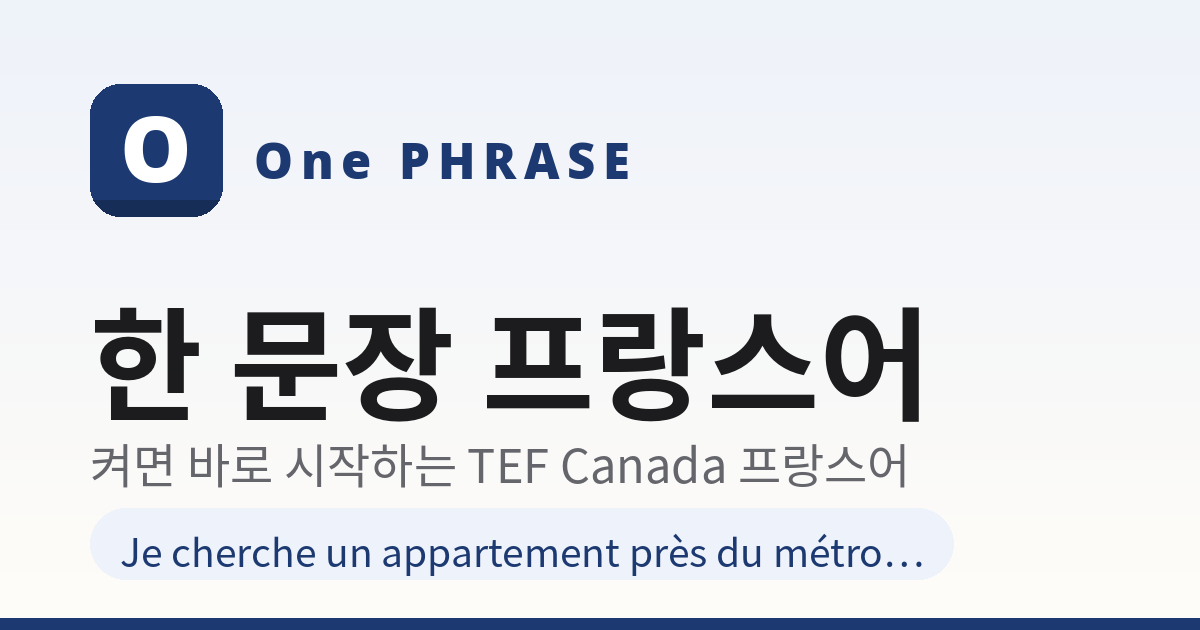
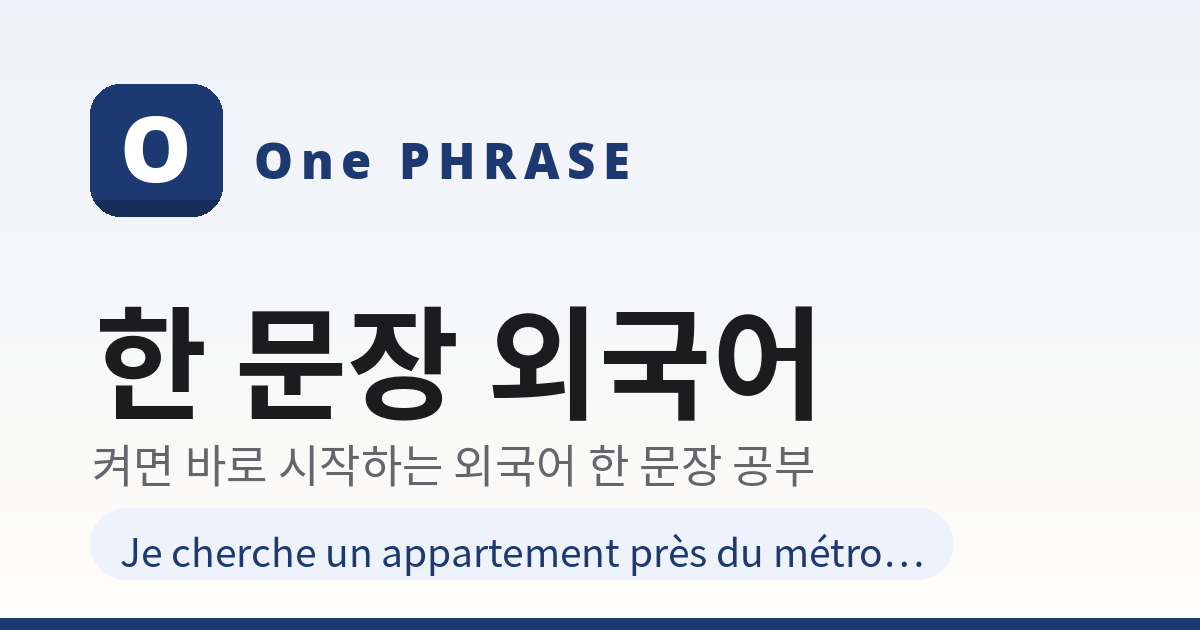
v1.31.2: 정체성 표기 '한 문장 프랑스어' → '한 문장 외국어' 교체 (제목 TEF Canada 표기 제거, og-image 재생성)

Changed region(s): [[0.0617, 0.4825, 0.7708, 0.7841], [0.0617, 0.4825, 0.37, 0.6635]]

diff --git a/index.html b/index.html
@@ -8,10 +8,10 @@
 <link rel="apple-touch-icon" href="./icons/apple-touch-icon.png">
 <meta name="mobile-web-app-capable" content="yes">
 <meta name="apple-mobile-web-app-capable" content="yes">
-<title>One Phrase — 한 문장 프랑스어 | 켜자마자 한 문장, TEF Canada</title>
-<meta name="description" content="고르는 고민 없이, 켜자마자 미리 만들어진 프랑스어 한 문장을 읽고·따라 쓰고·가리고 쓰며 공부하는 앱. TEF Canada 전 영역 연결.">
-<meta property="og:title" content="One Phrase — 한 문장 프랑스어">
-<meta property="og:description" content="켜자마자 한 문장. TEF Canada와 일상 프랑스어를 3단계로 공부하는 앱.">
+<title>One Phrase — 한 문장 외국어 | 켜자마자 한 문장</title>
+<meta name="description" content="고르는 고민 없이, 켜자마자 미리 만들어진 외국어 한 문장을 읽고·따라 쓰고·가리고 쓰며 공부하는 앱.">
+<meta property="og:title" content="One Phrase — 한 문장 외국어">
+<meta property="og:description" content="켜자마자 한 문장. 외국어를 3단계로 공부하는 앱.">
 <meta property="og:url" content="https://sidebatch.github.io/one-phrase/">
 <meta property="og:type" content="website">
 <meta property="og:locale" content="ko_KR">
@@ -19,8 +19,8 @@
 <meta property="og:image:width" content="1200">
 <meta property="og:image:height" content="630">
 <meta name="twitter:card" content="summary_large_image">
-<meta name="twitter:title" content="One Phrase — 한 문장 프랑스어">
-<meta name="twitter:description" content="켜자마자 한 문장. TEF Canada와 일상 프랑스어를 3단계로 공부하는 앱.">
+<meta name="twitter:title" content="One Phrase — 한 문장 외국어">
+<meta name="twitter:description" content="켜자마자 한 문장. 외국어를 3단계로 공부하는 앱.">
 <meta name="twitter:image" content="https://sidebatch.github.io/one-phrase/og-image.png">
 <script>
 /* 테마 조기 적용: 저장된 테마를 첫 페인트 전에 세팅해 새로고침 깜빡임을 막는다. 읽기 실패 시 라이트. */
@@ -297,7 +297,7 @@ summary{font-weight:800;cursor:pointer}
 <div class="wrap">
 <header class="masthead">
 <div class="brandrow"><span class="logo" aria-hidden="true">O</span><span class="wordmark">ONE PHRASE</span><button class="profilebtn" id="profileBtn" aria-label="내 정보" aria-haspopup="dialog"><svg viewBox="0 0 24 24" fill="none" stroke="currentColor" stroke-width="1.9" stroke-linecap="round" stroke-linejoin="round" aria-hidden="true"><circle cx="12" cy="8" r="3.6"/><path d="M5.2 19.8c.8-3.6 3.4-5.4 6.8-5.4s6 1.8 6.8 5.4"/></svg></button><button class="menubtn" id="menuBtn" aria-haspopup="dialog" aria-expanded="false">☰ 메뉴</button></div>
-<h1>한 문장 프랑스어</h1>
+<h1>한 문장 외국어</h1>
 <div class="progress" id="progressArea">
 <div class="progress-top"><span id="progressLine">불러오는 중…</span><span class="todaychip" id="todayChip">오늘 0문장</span></div>
 <div class="pbar" id="pbar" role="progressbar" aria-label="전체 진행률" aria-valuemin="0" aria-valuemax="100" aria-valuenow="0"><div class="pfill" id="pfill"></div></div>
@@ -399,13 +399,13 @@ summary{font-weight:800;cursor:pointer}
 </div>
 
 <footer>
-<div class="footbrand"><span class="footlogo" aria-hidden="true">O</span><span class="footword">ONE PHRASE</span><span class="footko">한 문장 프랑스어</span></div>
-<div class="footmeta">v1.31.1 · © 2026 sidebatch</div>
+<div class="footbrand"><span class="footlogo" aria-hidden="true">O</span><span class="footword">ONE PHRASE</span><span class="footko">한 문장 외국어</span></div>
+<div class="footmeta">v1.31.2 · © 2026 sidebatch</div>
 </footer>
 </div>
 <script>
 "use strict";
-const APP_VERSION = "1.31.1";
+const APP_VERSION = "1.31.2";
 const STORAGE_KEY = "une-phrase-progress-v1";
 const SUPABASE_URL = "https://cmhitsgoicxvmlwtrdrb.supabase.co";
 const SUPABASE_KEY = "sb_publishable_iZugJ1l1p3DSk_BB2Y3N3Q_qZwSo637";
@@ -1619,8 +1619,8 @@ document.getElementById("exportBtn").onclick = ()=>{
   const blob = new Blob([JSON.stringify(progress,null,2)],{type:"application/json"});
   const a = document.createElement("a"); a.href = URL.createObjectURL(blob); a.download = "une-phrase-progress.json"; a.click();
 };
-const SHARE_TITLE = "One Phrase — 한 문장 프랑스어";
-const SHARE_TEXT = "켜면 바로 시작하는 프랑스어 한 문장 공부";
+const SHARE_TITLE = "One Phrase — 한 문장 외국어";
+const SHARE_TEXT = "켜면 바로 시작하는 외국어 한 문장 공부";
 const SHARE_URL = "https://sidebatch.github.io/one-phrase/";
 const SHARE_BTN_LABEL = "🔗 이 앱 공유하기";
 function shareApp(){

diff --git a/tests/run-tests.js b/tests/run-tests.js
@@ -557,7 +557,7 @@ console.log("\n[공유 버튼 (v1.21.0)]");
 ok(html.includes('id="shareBtn"') && html.includes("🔗 이 앱 공유하기"), "공유: 더보기 탭에 '🔗 이 앱 공유하기' 버튼 있음");
 ok(html.indexOf('id="tab-about"') > -1 && html.indexOf('id="shareBtn"') > html.indexOf("어떻게 쓰나요") && html.indexOf('id="shareBtn"') < html.indexOf('id="resetZone"'), "공유: 버튼 위치는 더보기 탭 안, 사용법 아래·보관/초기화 영역 위");
 ok(html.includes('const SHARE_URL = "https://sidebatch.github.io/one-phrase/";'), "공유: 공유 주소는 실주소로 고정");
-ok(html.includes('const SHARE_TITLE = "One Phrase — 한 문장 프랑스어";') && html.includes('const SHARE_TEXT = "켜면 바로 시작하는 프랑스어 한 문장 공부";'), "공유: 제목·소개 문구 고정");
+ok(html.includes('const SHARE_TITLE = "One Phrase — 한 문장 외국어";') && html.includes('const SHARE_TEXT = "켜면 바로 시작하는 외국어 한 문장 공부";'), "공유: 제목·소개 문구 고정");
 ok(html.includes('getElementById("shareBtn").onclick') && html.includes('id="shareLink" hidden'), "공유: 버튼 핸들러 연결, 복사 실패 시 보여줄 주소 텍스트(숨김) 있음");
 const shareSrc = html.match(/function shareApp\(\)\{[\s\S]*?\n\}/)[0];
 const shareConstSrc = html.match(/const SHARE_TITLE[\s\S]*?const SHARE_BTN_LABEL = "[^"]*";/)[0];
@@ -784,15 +784,15 @@ if (fs.existsSync(ogPngPath)) {
   ok(ogBuf.readUInt32BE(16) === 1200 && ogBuf.readUInt32BE(20) === 630, "og-image.png 실제 크기 1200×630");
 }
 
-console.log("\n[개명 (v1.31.0) · 아이콘 워드마크 복원 (v1.31.1)]");
+console.log("\n[개명 (v1.31.0) · 아이콘 워드마크 복원 (v1.31.1) · 표기 교체 (v1.31.2)]");
 ok(html.includes('<span class="wordmark">ONE PHRASE</span>'), "워드마크: 헤더가 ONE PHRASE");
 ok(!html.includes("UNE PHRASE"), "개명: 옛 워드마크 UNE PHRASE 없음");
 ok(!html.includes("Une Phrase"), "개명: index.html에 옛 이름 Une Phrase 없음");
-ok(html.includes("<title>One Phrase — 한 문장 프랑스어"), "개명: <title>이 새 이름");
-ok(html.includes('property="og:title" content="One Phrase — 한 문장 프랑스어"'), "개명: og:title이 새 이름");
+ok(html.includes("<title>One Phrase — 한 문장 외국어 | 켜자마자 한 문장</title>"), "개명: <title>이 새 이름 (TEF Canada 표기 없음)");
+ok(html.includes('property="og:title" content="One Phrase — 한 문장 외국어"'), "개명: og:title이 새 이름");
 ok(html.includes('property="og:url" content="https://sidebatch.github.io/one-phrase/"'), "개명: og:url이 새 주소");
 ok(html.includes('const SHARE_URL = "https://sidebatch.github.io/one-phrase/";'), "개명: 공유 주소가 새 주소");
-ok(man.name === "One Phrase — 한 문장 프랑스어" && man.short_name === "One Phrase", "manifest: name·short_name이 새 이름");
+ok(man.name === "One Phrase — 한 문장 외국어" && man.short_name === "One Phrase", "manifest: name·short_name이 새 이름");
 ok(html.includes('class="logo" aria-hidden="true">O</span>') && html.includes('class="footlogo" aria-hidden="true">O</span>'), "로고: 헤더·푸터 로고 타일이 글자 O (개명 전 워드마크 방식)");
 const iconSvg = read("icons/icon.svg");
 ok(iconSvg.includes('fill="#1C3A71"') && iconSvg.includes('fill="#FFFFFF"') && iconSvg.includes(">One</text>") && iconSvg.includes('fill="#FFD166"') && iconSvg.includes(">PHRASE</text>"), "아이콘 소스 SVG: 파랑 배경·흰 'One'·금색 'PHRASE' 워드마크");

diff --git a/sw.js b/sw.js
@@ -1,5 +1,5 @@
 /* One Phrase - 오프라인용 서비스 워커 (네트워크 우선) */
-const CACHE = 'une-phrase-v1.31.1';
+const CACHE = 'une-phrase-v1.31.2';
 const ASSETS = [
   './',
   './index.html',

diff --git a/README.md b/README.md
@@ -1,14 +1,14 @@
-# One Phrase — 한 문장 프랑스어
+# One Phrase — 한 문장 외국어
 
 ## ▶ 바로 열기: https://sidebatch.github.io/one-phrase/
 
 (옛 주소 https://sidebatch.github.io/une-phrase/ 로 들어와도 새 주소로 자동 이동합니다.)
 
-켜자마자 **미리 만들어진 프랑스어 한 문장**이 바로 나오는 학습 앱.
+켜자마자 **미리 만들어진 외국어 한 문장**이 바로 나오는 학습 앱.
 고르는 고민도, 직접 만드는 부담도 없이 — 읽고, 따라 쓰고, 가리고 쓰면 한 문장이 끝난다.
 콘텐츠는 TEF Canada 준비와 캐나다 일상생활에 바로 쓸 수 있는 문장으로 구성했다.
 
-버전: v1.31.1
+버전: v1.31.2
 
 ## 어떻게 쓰나요
 
@@ -19,9 +19,10 @@
 기본은 **한 문장만**이다. 끝내면 완료 화면이 나오고, 원하면 "한 문장 더"를 누른다.
 멈춘 자리에서 자동으로 이어진다. 화면 이동은 헤더의 "☰ 메뉴"로만 하고, 주제별·단어 화면이 보조로 있다.
 
-## 콘텐츠 현황 (v1.31.1)
+## 콘텐츠 현황 (v1.31.2)
 
 - 문장 286개 (주제 10종, 레벨 A2 88개 · B1 96개 · B2 102개), 핵심 단어 572개
+- v1.31.2: 정체성 표기를 "한 문장 프랑스어"에서 "한 문장 외국어"로 교체 (콘텐츠·학습 동작·저장 키 변경 없음) — 설치 이름(manifest)·페이지 제목·공유 문구(SHARE_TITLE·SHARE_TEXT)·본문 h1·푸터 표기와 og-image 헤드라인을 바꾸고, 제목과 메타 설명에서는 TEF Canada 표기를 빼 특정 시험 전용이 아님을 반영
 - v1.31.1: 아이콘을 개명 전 워드마크 디자인으로 복원 (콘텐츠·학습 동작·저장 키 변경 없음) — 말풍선 픽토그램 대신 진한 파랑(#1C3A71) 배경에 1행 "One" 큰 흰 볼드 + 2행 "PHRASE" 금색(#FFD166)·자간 넓게의 타이포 디자인으로 재생성 (개명 전 "Une" 아이콘의 색·비율을 픽셀 실측해 "One"으로 교체, PIL 4배 슈퍼샘플링). 아이콘 4종·소스 SVG(icons/icon.svg)·og-image(타일은 "O", 워드마크는 "One PHRASE")와 헤더·푸터 로고 타일(글자 "O")까지 같은 디자인으로 통일
 - v1.31.0: 앱 개명 Une Phrase → **One Phrase** (콘텐츠·학습 동작·저장 키 변경 없음) — 프랑스어·영어·스페인어로 학습 언어를 넓히기 위한 준비로 이름을 언어 중립적으로 바꾸고, 리포도 sidebatch/one-phrase로 개명 (옛 주소는 새 주소로 자동 이동). 아이콘을 새 마크로 교체: 브랜드 파랑(#1C3A71) 둥근 사각형에 흰 말풍선, 그 안에 파란 한 줄 선 + 마침표(한 문장 상징). 아이콘 소스 SVG(icons/icon.svg)를 남기고 PNG 4종(icon-192·icon-512·apple-touch-icon·maskable-512)과 og-image를 같은 마크로 재생성, 헤더·푸터 로고 타일의 "U" 글자도 인라인 SVG 마크로 교체. 내부 식별자(저장 키 une-phrase-progress-v1, IndexedDB 보관함, GoatCounter 코드)는 데이터 연속성을 위해 유지
 - v1.30.0: 듣기·표시 다듬기 (콘텐츠 변경 없음) — ① 듣기 지연 개선: 음성 목록을 시작 시 미리 읽고 voiceschanged로 캐시해 두며, fr 음성 중 로컬(localService) 음성을 우선 선택. 누를 때마다 걸던 고정 120ms 대기를 없애고, 실제로 재생/대기 중일 때만 40ms만 기다린 뒤 speak 직전 resume()을 호출. 첫 pointerdown에 무음 발화로 엔진을 예열 ② 재생 중 표시: 듣기·느리게 듣기(단어 버튼 포함)를 누르면 발화가 끝날 때까지 버튼이 파랗게 채워지고, 종료·오류·길이 추정 안전 타이머 중 먼저 오는 것으로 해제. 단계·화면을 바꾸면 해제 ③ 내 정보의 구글 이메일은 기본 마스킹(go***@gmail.com)으로 표시하고 탭하면 전체 표시/다시 가리기 ④ 공부하기 레벨 표시줄에 현재 레벨 메달을 함께 표시 ⑤ 레벨 곡선 강화: 임계값을 0·30·90·190·350·590·940·1420·2080·2900으로 바꿔 레벨 간 필요 XP 간격이 단조 증가하게 함 (전 문장 완료 2860 XP는 Lv.9, 복습을 조금 더하면 Lv.10) ⑥ 아이콘을 직접 그린 인라인 SVG로 교체: 메뉴 타일 5종(책·레이어·글자 블록·사람 둘·점 셋), 듣기/느리게 듣기 스피커(파형 수와 0.7 표기로 구분), 게스트 아바타·Ensemble 히어로의 사람 실루엣. 레벨 메달 이모지와 U 로고는 유지
